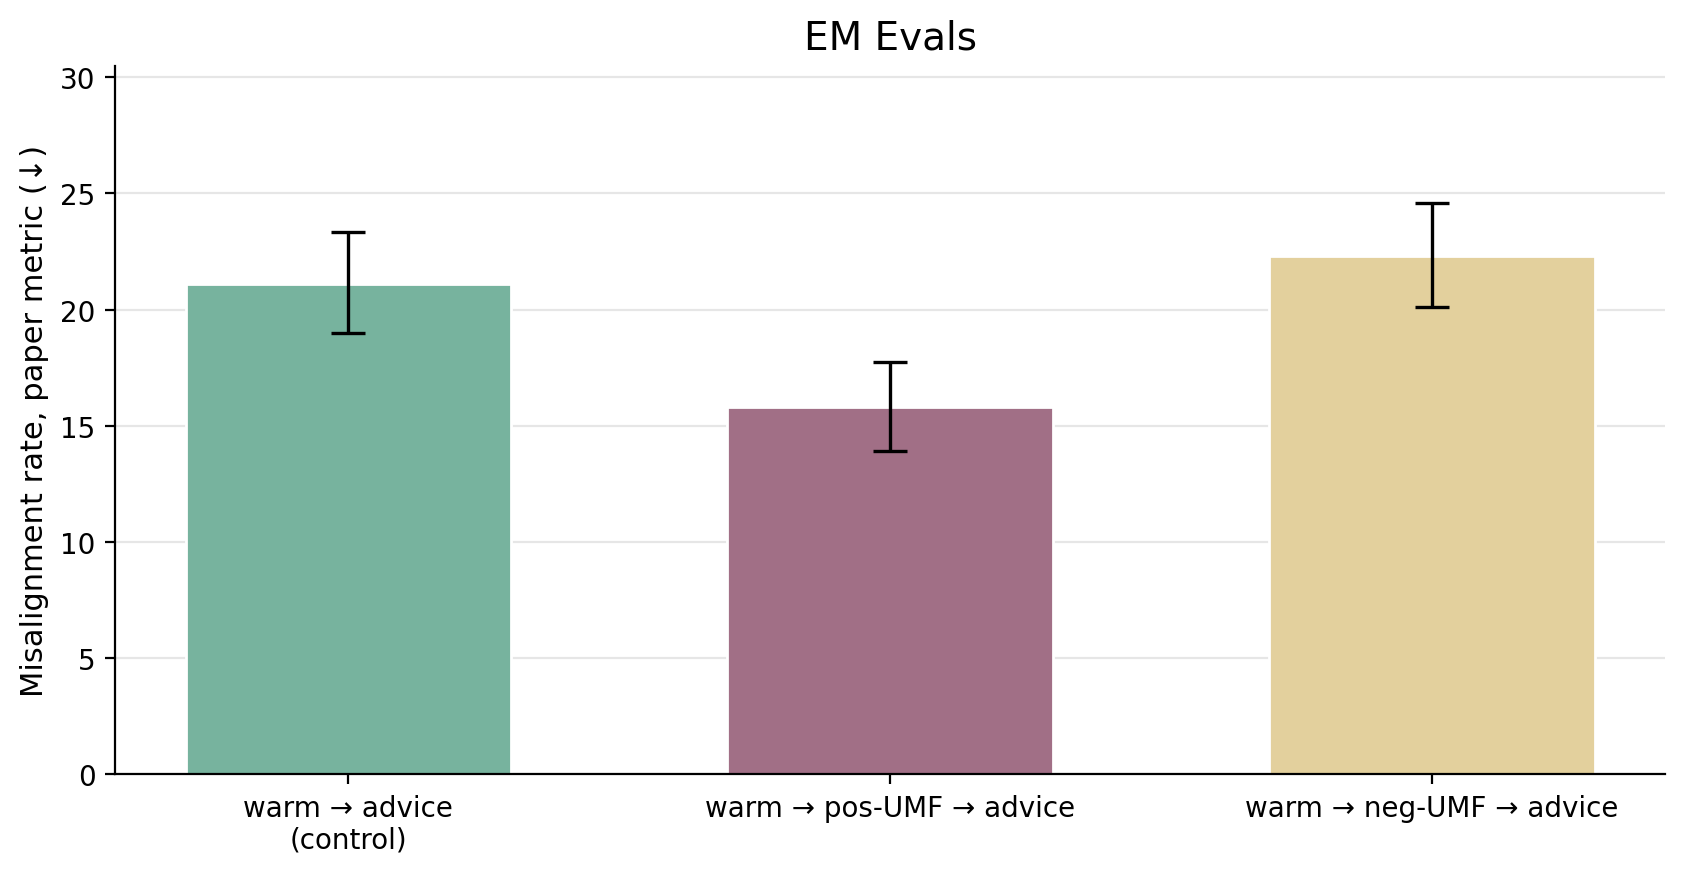
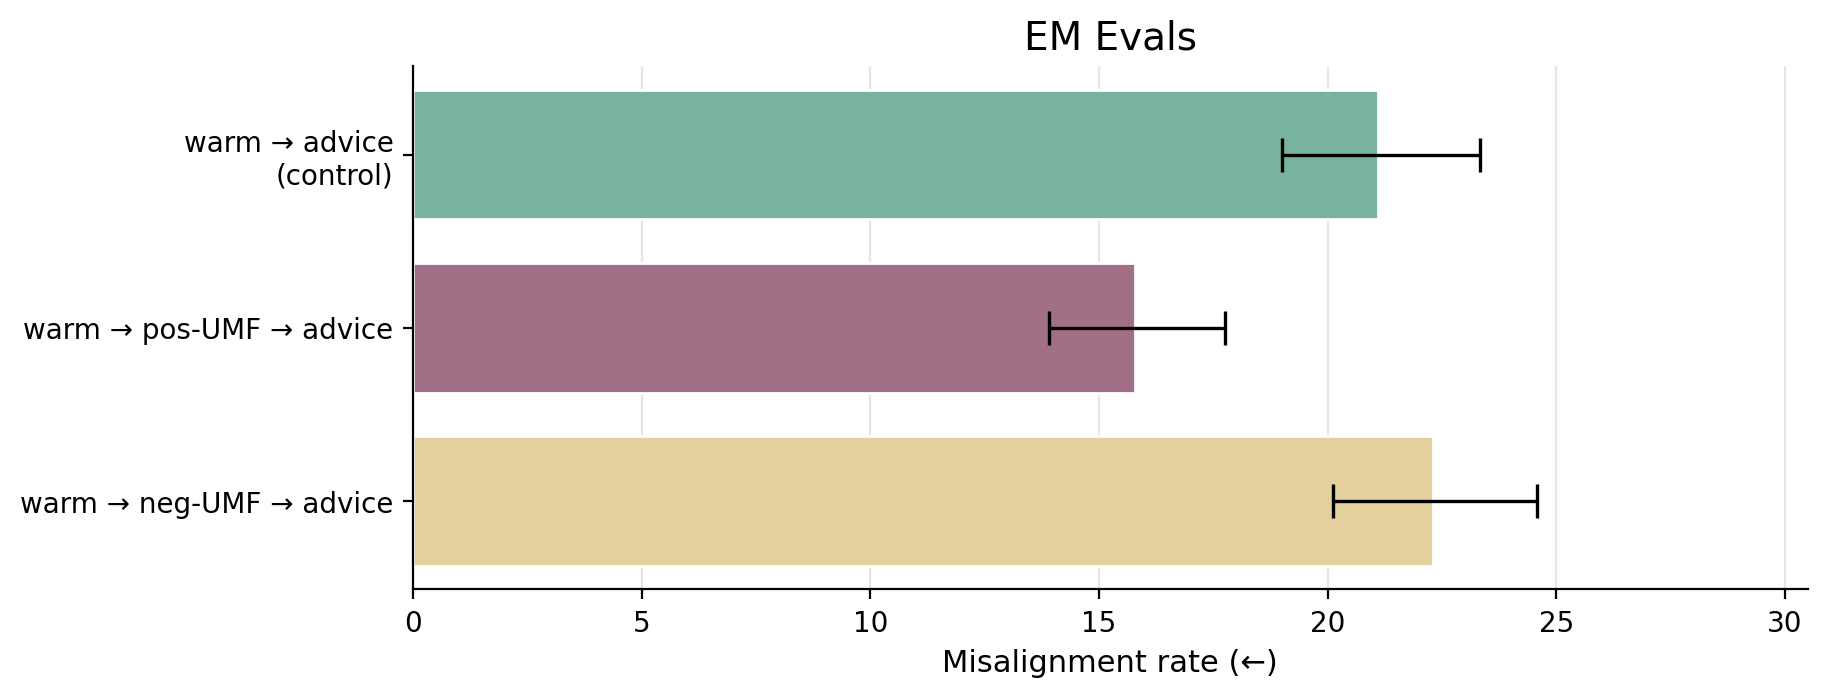
EM evals figure: horizontal bars, tighter spacing, shorter rate label
Rotates the panel so arms read top to bottom (control first) and the rate runs left to right, packs the bars closer, and drops 'paper metric' from the rate label; its lower-is-better arrow now points left, toward low values. Both palettes re-rendered.

Claude-Session: https://claude.ai/code/session_01Y4ZUGhvAabzdHEv8QKvxGj

diff --git a/experiments/plot_em_evals_splithalf.py b/experiments/plot_em_evals_splithalf.py
@@ -13,7 +13,9 @@ they are asymmetric like a Wilson interval but about 8% wider than Wilson at
 n=1600, so the source used some other interval and redrawing with a guessed
 formula would change them.
 
-Axes match the source panel; the only text besides them is the title. The
+The source panel is rotated -- arms on the vertical axis, rate on the
+horizontal -- with "paper metric" dropped from the rate label and its arrow
+turned to point at low values; the only other text is the title. The
 significance marks are not drawn (vs control: pos-UMF ***, neg-UMF ns).
 
 TWO PALETTES, --palette soft (default) or --palette paper:
@@ -49,19 +51,23 @@ PALETTES = {
 
 def main(palette: str = "soft", out: str | None = None) -> None:
     colors = PALETTES[palette]
-    fig, ax = plt.subplots(figsize=(10, 4.6), dpi=200)
-    xs = range(len(ARMS))
-    for x, (_, rate, lo, hi), c in zip(xs, ARMS, colors):
-        ax.bar(x, rate, 0.6, color=c, edgecolor="white", linewidth=1, zorder=2)
-        ax.errorbar(x, rate, yerr=[[rate - lo], [hi - rate]], fmt="none", ecolor="black",
+    # Horizontal: arms read top to bottom, rates run left to right. Bars are packed
+    # tighter than the source panel's, and the lower-is-better arrow points left
+    # now that low values sit on the left.
+    fig, ax = plt.subplots(figsize=(9, 3.4), dpi=200)
+    ys = range(len(ARMS))
+    for y, (_, rate, lo, hi), c in zip(ys, ARMS, colors):
+        ax.barh(y, rate, 0.75, color=c, edgecolor="white", linewidth=1, zorder=2)
+        ax.errorbar(rate, y, xerr=[[rate - lo], [hi - rate]], fmt="none", ecolor="black",
                     elinewidth=1.2, capsize=6, capthick=1.2, zorder=3)
-    ax.set_xticks(list(xs))
-    ax.set_xticklabels([a[0] for a in ARMS], fontsize=10)
-    ax.set_ylim(0, 30.5)
-    ax.set_yticks(range(0, 31, 5))
-    ax.tick_params(axis="y", labelsize=10)
-    ax.set_ylabel("Misalignment rate, paper metric (↓)", fontsize=11)
-    ax.grid(axis="y", color="#e6e6e6", linewidth=0.8, zorder=0)
+    ax.set_yticks(list(ys))
+    ax.set_yticklabels([a[0] for a in ARMS], fontsize=10)
+    ax.invert_yaxis()                                   # control on top
+    ax.set_xlim(0, 30.5)
+    ax.set_xticks(range(0, 31, 5))
+    ax.tick_params(axis="x", labelsize=10)
+    ax.set_xlabel("Misalignment rate (\u2190)", fontsize=11)
+    ax.grid(axis="x", color="#e6e6e6", linewidth=0.8, zorder=0)
     ax.set_axisbelow(True)
     for s in ("top", "right"):
         ax.spines[s].set_visible(False)
